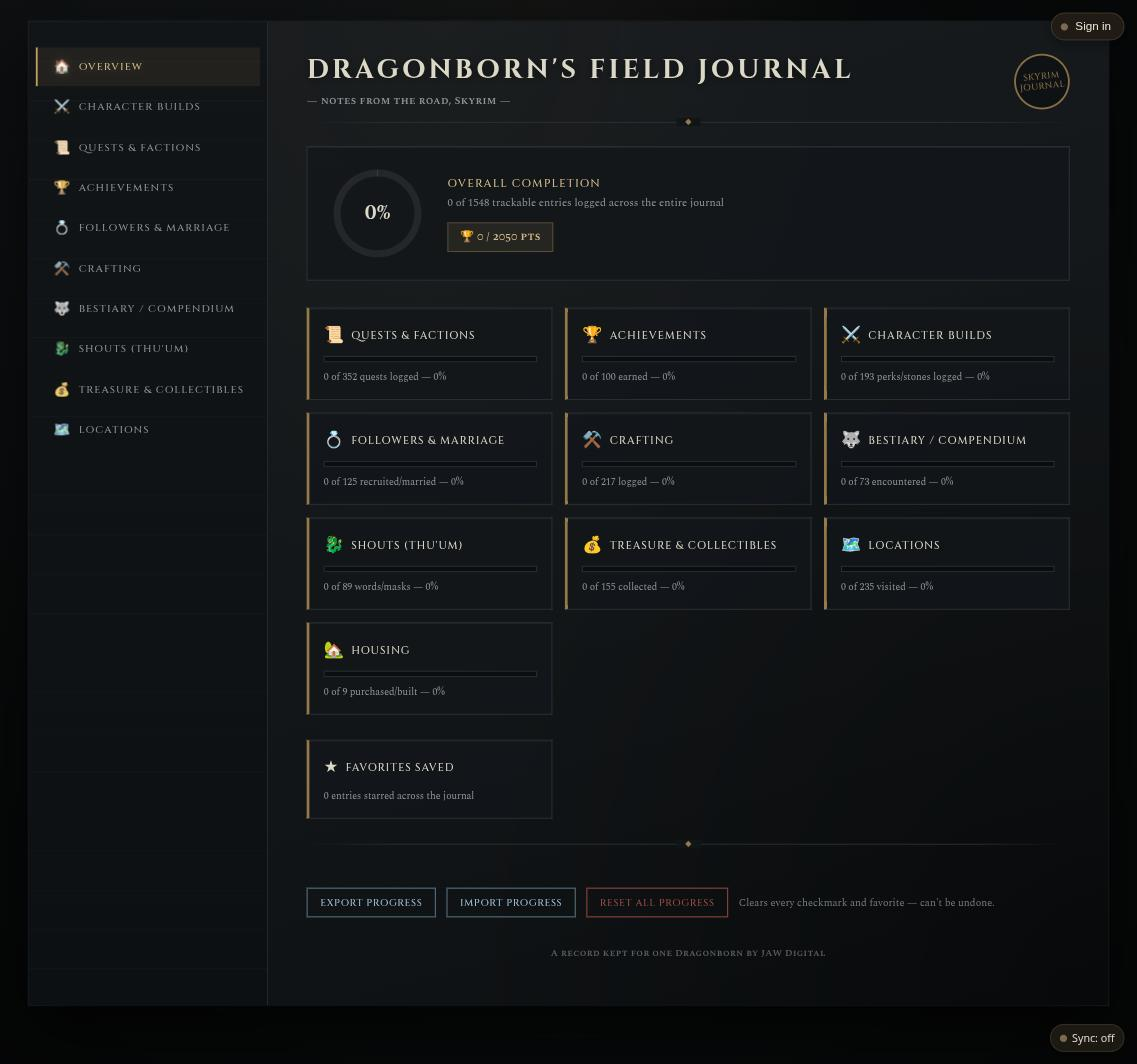
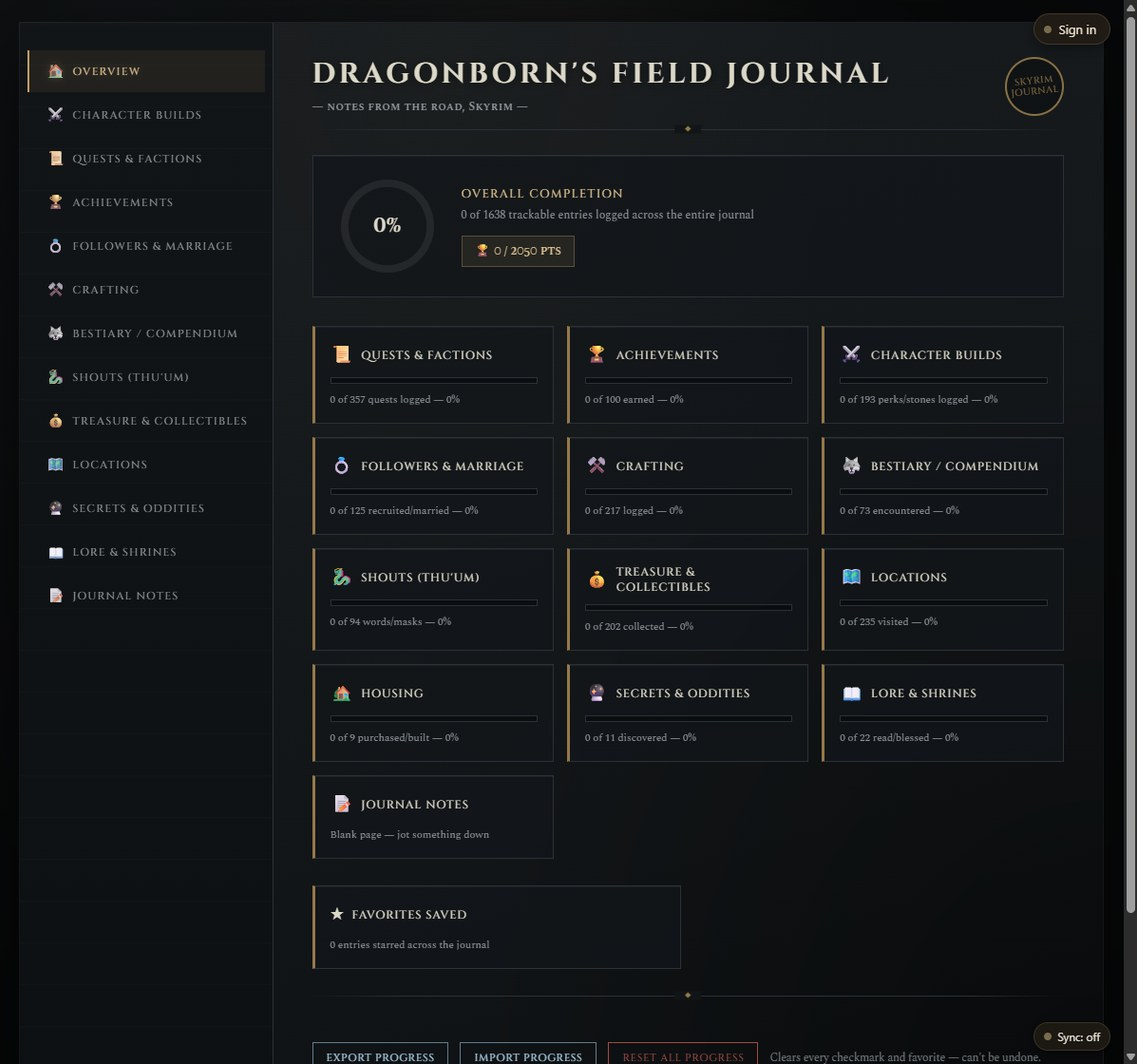
Skyrim: App Store readiness pass (screenshots + listing copy)
- Refresh screenshots/skyrim.jpg (marketing site + in-app tile) — the old
  thumbnail predated the masks/claws/trophies/oddities/lore additions
- Add screenshots/app-store/skyrim/: two iPhone 6.7" App Store Connect
  screenshots (Overview, Treasure & Collectibles) plus LISTING.md with
  draft description copy, keywords, and age-rating notes
- Update the marketing site's Skyrim card description to mention shouts/
  masks, treasure, and lore (was still listing the old, narrower feature set)
- Log progress + remaining gaps in APP-STORE-READINESS.md, and correct its
  "no Node.js on this machine" note (Node 22 is actually available)

Claude-Session: https://claude.ai/code/session_01K72CJT8HeREYaA2FP3u7fb

diff --git a/index.html b/index.html
@@ -186,7 +186,7 @@
         <a class="thumb-link" href="skyrim/" target="_blank" rel="noopener"><img src="screenshots/skyrim.jpg" alt="Dragonborn's Field Journal screenshot" loading="lazy" /></a>
         <div class="card-body">
           <div class="name">🐉 Dragonborn's Field Journal</div>
-          <div class="desc">Skyrim companion — quests &amp; factions, achievements, character builds, crafting, bestiary, and locations.</div>
+          <div class="desc">Skyrim companion — quests &amp; factions, achievements, shouts &amp; dragon priest masks, treasure &amp; collectibles, crafting, bestiary, locations, and Elder Scrolls lore.</div>
           <div class="row"><a class="view" href="skyrim/" target="_blank" rel="noopener">Open journal →</a><span class="badge">Free + Pro sync</span></div>
         </div>
       </div>

diff --git a/screenshots/app-store/skyrim/LISTING.md b/screenshots/app-store/skyrim/LISTING.md
@@ -1,0 +1,47 @@
+# App Store Connect assets — Skyrim journal
+
+The umbrella app ("JAW Digital Companion Journals") has one shared App Store listing
+covering all 7 games — see `APP-STORE-READINESS.md` at the repo root for that whole
+checklist. This file is just the Skyrim-specific pieces of it: screenshots and listing
+copy you can drop straight into App Store Connect once the app record exists.
+
+## Screenshots in this folder
+
+- `iphone-6.7in-01-overview.jpg` (1290×2796) — the journal's Overview dashboard,
+  showing the full 12-section breadth (Quests, Achievements, Shouts & Masks, Treasure,
+  Crafting, Bestiary, Locations, Lore & Shrines, etc.) and live completion tracking.
+- `iphone-6.7in-02-treasure.jpg` (1290×2796) — the Treasure & Collectibles tab open on
+  its sub-tab row (Stones of Barenziah, Dragon Claws, Guild Trophies, Rare Curios,
+  World Oddities...), a good "there's a lot in here" shot.
+
+Both are sized exactly for the **iPhone 6.7" display class** (required by App Store
+Connect). Still needed before submission: the 6.5" class (1242×2688) and, if the app
+supports iPad, the 12.9" class (2048×2732) — same capture method (Chrome DevTools
+`emulate` + `resize_page` + `take_screenshot` against the live journal URL, mobile nav
+kicks in automatically under 780px), just at those pixel sizes. Repeat for the other 6
+games too if/when this same pass gets done for them.
+
+## Suggested description copy (Skyrim-specific paragraph)
+
+> **Dragonborn's Field Journal** — the deepest Skyrim companion in the bundle. Every
+> quest and questline (Main Quest through all 4 DLC-era Creation Club additions),
+> all 100 achievements, all 27 shouts and 13 Dragon Priest masks (including the
+> Solstheim four and Konahrik), Daedric artifacts, Stones of Barenziah, Dragon
+> Claws, Thieves Guild trophies, followers & marriage, a full crafting reference,
+> the bestiary, every hold's dungeons and points of interest, and a curated shelf
+> of the game's key lore books — all searchable, favoritable, and trackable with
+> your progress saved locally (and synced if you're signed in).
+
+## Suggested keywords (Skyrim-relevant slice of the app's keyword field)
+
+skyrim companion, skyrim guide, skyrim checklist, dragon priest masks, skyrim quests,
+elder scrolls, dragonborn, skyrim achievements, skyrim collectibles, thieves guild
+
+## Age rating questionnaire notes
+
+The app itself contains no violence, gambling, or user-generated content — it's
+reference text and checkboxes about a game rated Teen (ESRB) / 18 (PEGI, for
+fantasy violence and blood). Apple's own questionnaire asks about content *in the
+app*, not the source game, so this should land at **4+** same as the rest of the
+bundle — but flag "Infrequent/Mild Fantasy Violence" if asked whether the app
+references violent game content, to stay honest about what it describes.

diff --git a/APP-STORE-READINESS.md b/APP-STORE-READINESS.md
@@ -1,9 +1,35 @@
 # App Store readiness — JAW Digital Companion Journals
 
 Scaffolding for wrapping the umbrella journal app (Skyrim, Oblivion, RDR2, Fallout 4,
-Fallout 76, New Vegas, Witcher 3) with Capacitor for iOS + Android. This machine has no
-Node.js, and iOS builds require Xcode on macOS regardless — so the steps below are what
-to run on a Mac (for iOS) or any machine with Node (for Android).
+Fallout 76, New Vegas, Witcher 3) with Capacitor for iOS + Android. iOS builds require
+Xcode on macOS regardless of what generates the native project — so step 1 below still
+needs to happen on a Mac (or any machine with Node, for the Android half). Update: a
+later pass found this machine *does* have Node 22 available after all (the original
+note above was wrong) — `npm install` / `npx cap add ios|android` would work here, but
+weren't run, since there's still no way to open Xcode or test the result from Linux.
+
+## Skyrim-specific progress (2 Sept 2026)
+
+Content-side, the Skyrim journal itself is feature-complete for release (Dragon Priest
+Masks including Konahrik + the Solstheim four, Dragon Claws, Guild Trophies, World
+Oddities, the new Lore & Shrines section, several new/expanded quests — see the repo's
+recent PRs). What got done in this pass, specifically for the App Store submission:
+
+- `screenshots/skyrim.jpg` refreshed — the old thumbnail predated all of the above;
+  it's now a current capture of the Overview dashboard (used on both the marketing
+  site card and the in-app home tile).
+- `screenshots/app-store/skyrim/` — two iPhone 6.7" (1290×2796) App Store Connect
+  screenshots (Overview, Treasure & Collectibles), plus `LISTING.md` with draft
+  description copy, keywords, and age-rating notes for the Skyrim portion of the
+  shared app listing. Still need the 6.5" and iPad size classes — same method, just
+  re-run at those pixel sizes.
+- Marketing site's Skyrim card description updated (it still said "quests, achievements,
+  builds, crafting, bestiary, locations" — now mentions shouts/masks, treasure, and lore
+  too).
+
+Everything else below (native project generation, IAP, trademark/legal review, listing
+prep for the other 6 games, actual submission) is still open — this pass only advanced
+the Skyrim-specific slice of it.
 
 ## What's done in this pass
 
